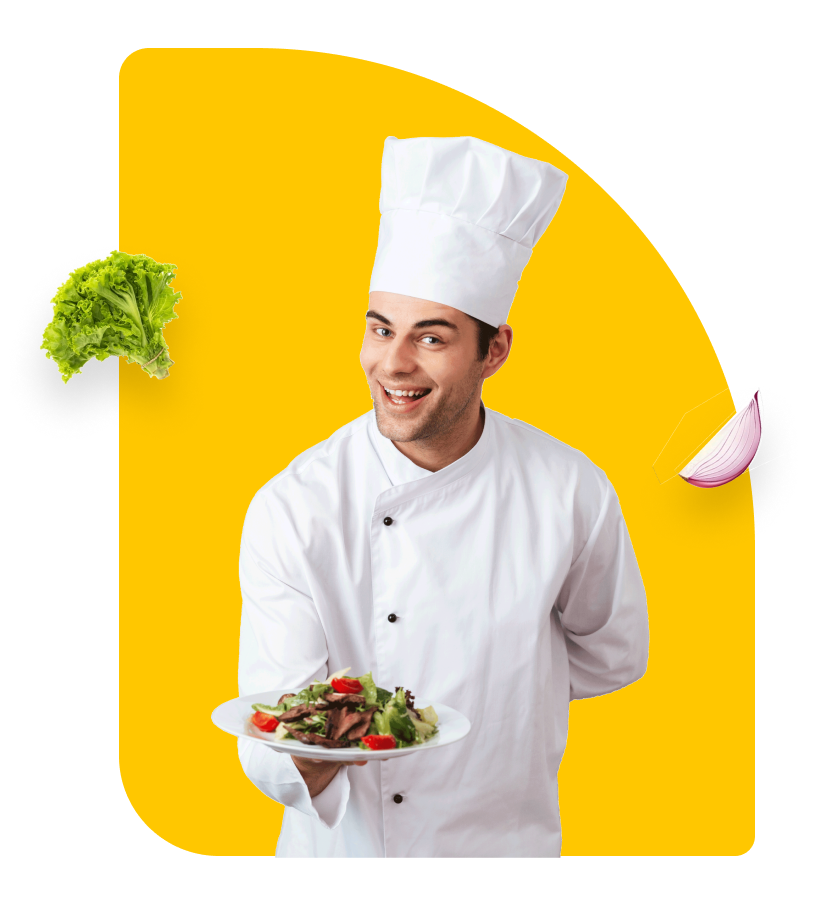
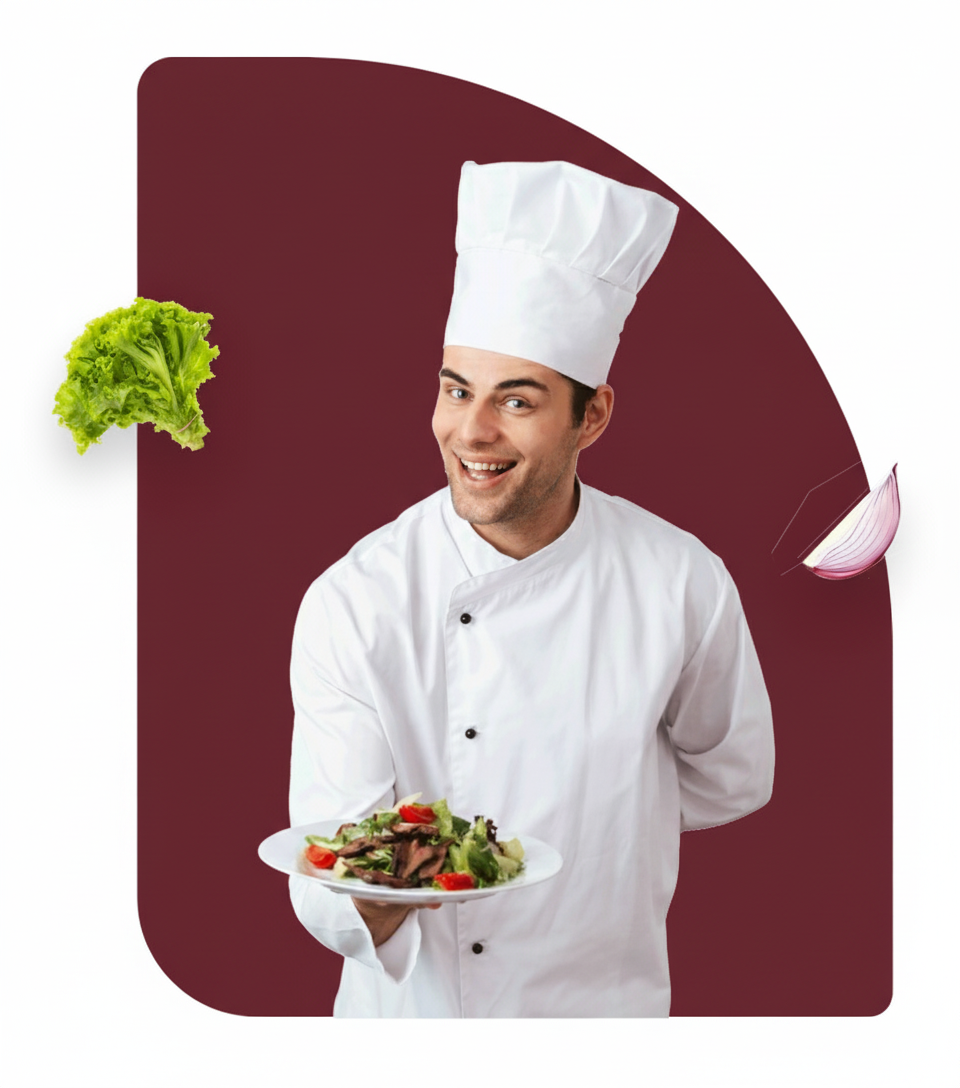
New

diff --git a/index.html b/index.html
@@ -90,8 +90,8 @@
         <!-- hero-section -->
         <section class="hero-section hero">
             <div class="container">
-                <div class="row hero-content">
-                    <div class="col-md-6 hero-data">
+                <div class="hero-content d-flex">
+                    <div class="hero-data">
                         <h1 class="hero-title">Chow Now cloud-Kitchen</h1>
                         <p class="hero-para">Lorem ipsum dolor sit amet consectetur adipisicing elit. Magni, rerum ex?
                             Itaque, possimus odit quidem a repudiandae tempore totam, perspiciatis tenetur recusandae
@@ -576,12 +576,12 @@
                 </div>
                 <div class="row master-chef-content">
                     <div class="col-md-6 chef-img">
-                        <img src="./assets/images/cook.png" class="chef-image">
+                        <img src="assets/images/cook.png" class="chef-image">
                     </div>
                     <div class="col-md-6 chef-content">
                         <div class="chef-head">
                             <h5 class="chef-title">ORDER WITH US</h5>
-                            <p class="chef-para">Your <span style="color: #D00000;">Ex</span> disappointed you, we
+                            <p class="chef-para">Your <span style="color: #D00000;">Ex</span>disappointed you, we
                                 won’t.</p>
                         </div>
                         <div class="chef-content-data">
@@ -598,48 +598,7 @@
                 </div>
             </div>
         </section>
-
-        <!-- contact-section -->
-        <section class="contact-section contact">
-            <div class="container">
-                <div class="contact-content d-flex">
-                    <div class="contact-img">
-                        <img src="./assets/images/contact_page.png" class="contact-image">
-                    </div>
-                    <div class="contact-form">
-                        <div class="contact-head d-flex">
-                            <h5 class="contact-title">
-                                Reservation
-                            </h5>
-                            <h3 class="book-table">Book A Table Online</h3>
-                        </div>
-                        <div class="contact-form-deatil">
-                            <form action="/action_page.php">
-                                <div class="form">
-                                    <div class="peronal-details d-flex">
-                                        <input type="text" id="fname" name="fname" value="Full Name">
-                                        <input type="email" id="email" name="email" value="Email" required />
-                                    </div>
-                                    <div class="timeslot d-flex">
-                                        <input type="date" id="dnt" name="dnt" placeholder="Date" required />
-                                        <select id="persons" name="people">
-                                            <option value="2">2</option>
-                                            <option value="4">4</option>
-                                            <option value="8">8+</option>
-                                            <option value="12">12+</option>
-                                        </select>
-                                    </div>
-                                    <textarea rows="4" cols="50" name="comment"
-                                        form="usrform">Any Special Request Here...</textarea>
-                                    <button class="book-now-btn">Book Now</button>
-                                </div>
-                            </form>
-                        </div>
-                    </div>
-                </div>
-            </div>
-        </section>
-
+        
         <!-- team-member-section -->
         <section class="team-member-section team-member">
             <div class="container">
@@ -739,10 +698,53 @@
                 </div>
             </div>
         </section>
+
+        <!-- contact-section -->
+        <section class="contact-section contact">
+            <div class="container">
+                <div class="contact-content d-flex">
+                    <div class="contact-img">
+                        <img src="./assets/images/contact_page.png" class="contact-image">
+                    </div>
+                    <div class="contact-form">
+                        <div class="contact-head d-flex">
+                            <h5 class="contact-title">
+                                Reservation
+                            </h5>
+                            <h3 class="book-table">Book A Table Online</h3>
+                        </div>
+                        <div class="contact-form-deatil">
+                            <form action="/action_page.php">
+                                <div class="form">
+                                    <div class="peronal-details d-flex">
+                                        <input type="text" id="fname" name="fname" value="Full Name">
+                                        <input type="email" id="email" name="email" value="Email" required />
+                                    </div>
+                                    <div class="timeslot d-flex">
+                                        <input type="date" id="dnt" name="dnt" placeholder="Date" required />
+                                        <select id="persons" name="people">
+                                            <option value="2">2</option>
+                                            <option value="4">4</option>
+                                            <option value="8">8+</option>
+                                            <option value="12">12+</option>
+                                        </select>
+                                    </div>
+                                    <textarea rows="4" cols="50" name="comment"
+                                        form="usrform">Any Special Request Here...</textarea>
+                                    <button class="book-now-btn">Book Now</button>
+                                </div>
+                            </form>
+                        </div>
+                    </div>
+                </div>
+            </div>
+        </section>
     </main>
 
     <!-- footer -->
-    <footer class="main-footer"></footer>
+    <footer class="main-footer">
+        <h1 class="footer">This is the footer</h1>
+    </footer>
 
     <!-- owl carousel js -->
     <script src="./assets/js/owl.carousel.min.js"></script>

diff --git a/assets/css/style.css b/assets/css/style.css
@@ -1,5 +1,6 @@
 body {
   font-family: "Playfair Display", serif;
+  background-color: rgb(218, 218, 222);
 }
 
 :root {
@@ -15,6 +16,9 @@ body {
   --primary-dark-1: #6a040f;
   --primary-dark-2: #370617;
   --primary-dark-3: #03071e;
+
+  --primary-color-1: #66272f;
+
 }
 
 .container {
@@ -49,6 +53,7 @@ div#navbarNav {
   justify-content: flex-end;
   gap: 19%;
 }
+
 ul.navbar-nav {
   display: flex;
   gap: 20px;
@@ -81,8 +86,8 @@ li.icons-list {
 button.online-order-btn {
   padding: 10px 18px;
   border-radius: 20px;
-  background-color: #ffc700;
-  color: var(--primary-dark-2);
+  background-color: var(--primary-color-1);
+  color: white;
   border: none;
 }
 
@@ -93,7 +98,7 @@ section.hero-section.hero {
 }
 
 .hero-section.hero {
-  background-image: url(../images/hero-bg.jpeg);
+  background-image: url(../images/glass-on-table.jpg);
   background-size: cover;
   background-repeat: no-repeat;
   background-position: center;
@@ -119,13 +124,15 @@ button.order-now-btn {
   padding: 15px 30px;
   border-radius: 20px;
   border: none;
-  background-color: #ffc700;
-  color: var(--primary-dark-2);
+  background-color: var(--primary-color-1);
+  color: white;
   font-size: 18px;
 }
-
-.hero-data {
-  padding-right: 13%;
+.hero-content{
+  justify-content: flex-end;
+}
+.hero-data{
+  width: 41%;
 }
 
 /* offer section */
@@ -243,7 +250,7 @@ section.menu-section.menu {
 
 .nav-pills .nav-link.active,
 .nav-pills .show > .nav-link {
-  background-color: var(--primary-orange-4) !important;
+  background-color: var(--primary-color-1) !important;
   color: white !important;
   border-radius: 12px;
 }
@@ -284,8 +291,8 @@ ul#pills-tab {
   display: flex;
   flex-direction: column;
   padding-block-start: 20px;
-  background-color: #ffc700;
-  color: var(--primary-dark-2);
+  background-color: var(--primary-color-1);
+  color: white;
   width: 100%;
 }
 
@@ -359,8 +366,8 @@ button.learn-more-btn {
   padding: 15px 25px 15px 25px;
   border-radius: 16px;
   border: none;
-  background-color: #ffc700;
-  color: var(--primary-dark-2);
+  background-color: var(--primary-color-1);
+  color: white;
   transition: 0.3;
 }
 
@@ -404,13 +411,13 @@ img.contact-image {
 .contact-head {
   flex-direction: column;
   align-items: center;
-  color: var(--primary-dark-2) !important;
+  color: whitesmoke !important;
 }
 
 .contact-form {
   width: 50%;
   padding: 15px;
-  background-color: #ffc700;
+  background-color: var(--primary-color-1);
 }
 
 input#dnt,
@@ -494,4 +501,7 @@ a.social-links {
   text-align: center;
 }
 
-/* contact */
+/* footer */
+.main-footer{
+  background-color: var(--primary-color-1);
+}
